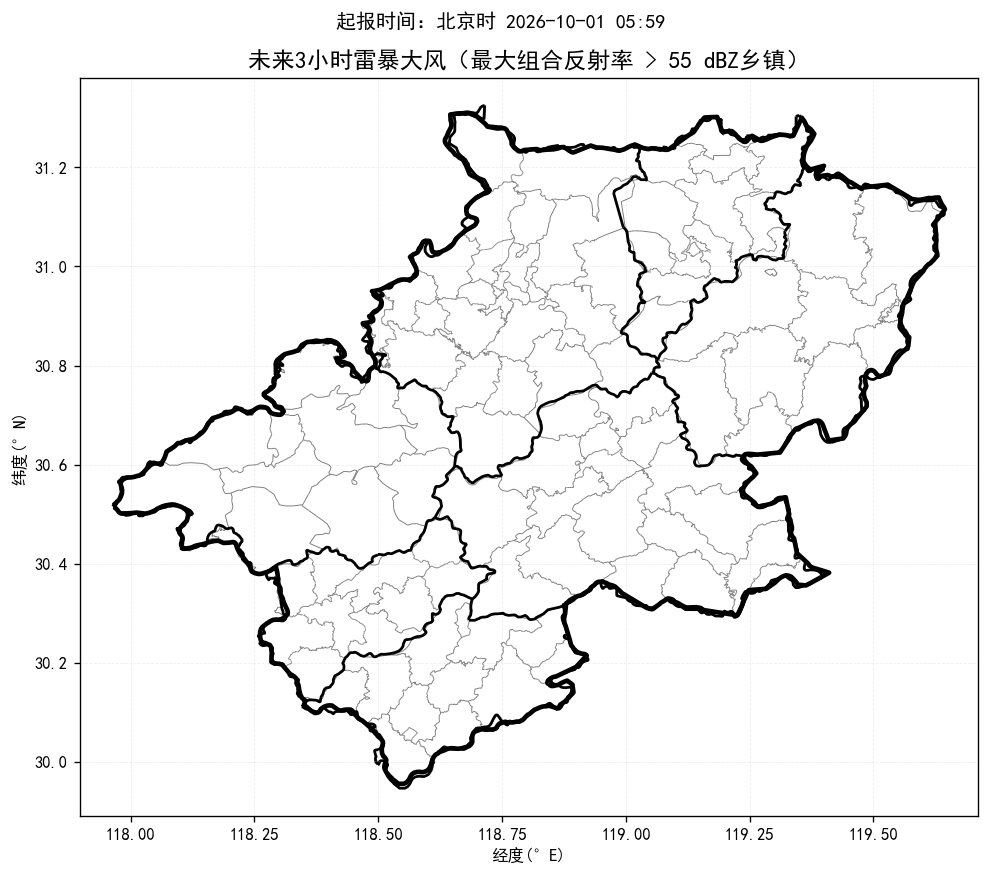
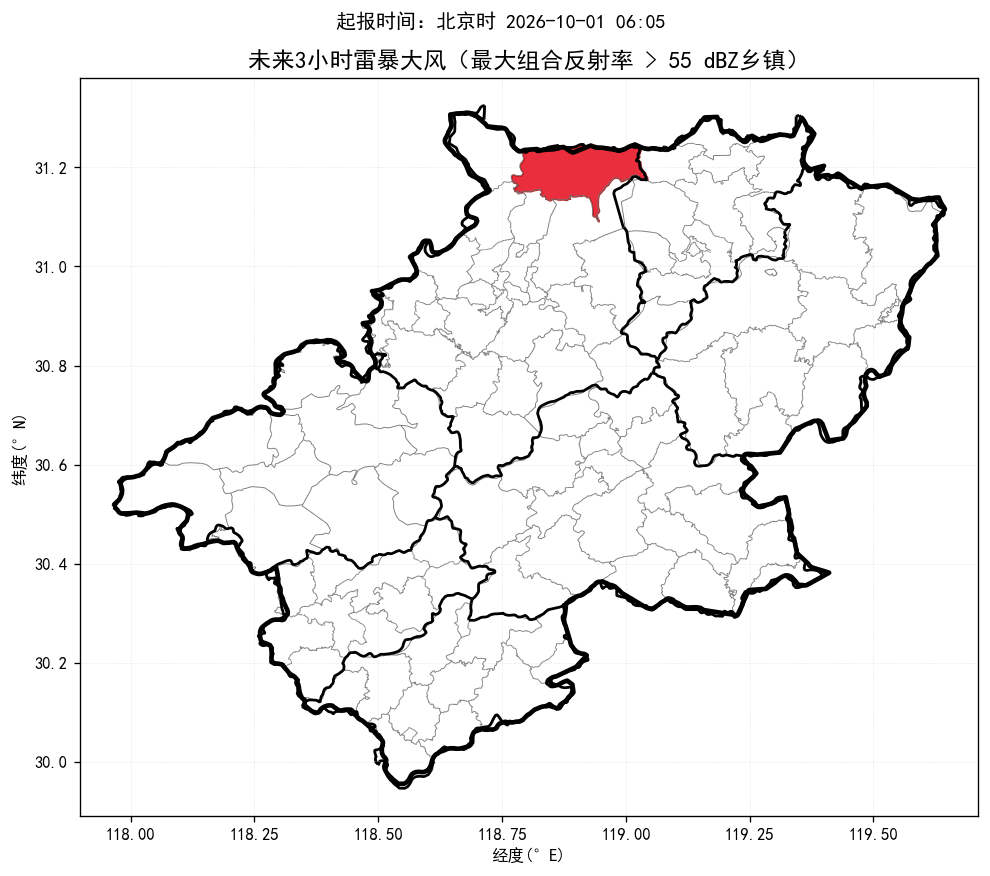
update nowcast products

Changed region(s): [[0.5152, 0.1541, 0.6667, 0.2466], [0.6364, 0.0, 0.6667, 0.0308]]

diff --git a/index.html b/index.html
@@ -14,14 +14,14 @@ img.product{display:block;width:100%;height:auto;margin:10px auto 26px;border:1p
 .footer{font-size:13px;color:#777;text-align:center;margin-top:30px}
 @media(max-width:700px){.sheet{margin:0;padding:18px 15px}.alert-title{font-size:22px}.county-line{font-size:17px}.prob{font-size:18px}}
 </style></head><body><main class="sheet">
-<div class="time">起报时间：北京时 2026-10-01 05:59</div>
+<div class="time">起报时间：北京时 2026-10-01 06:05</div>
 <div class="alert-title">未来一小时降水量超过 20 毫米的乡镇：</div><div class="county-line">无</div>
 <div class="alert-title">未来三小时降水量超过 50 毫米的乡镇：</div><div class="county-line">无</div>
-<div class="alert-title">未来三小时雷暴大风（组合反射率 > 55 dBZ）的乡镇：</div><div class="county-line">无</div>
-<div class="prob">最大降水量概率预估：宣城市范围内未来三小时降水偏小，最大预报约16.8毫米，暂不进行50/80/100毫米概率预估。</div>
-<div class="section-title">未来降水预报图：</div><img class="product auto-refresh-product" data-src="短临降水预报.png" src="短临降水预报.png?v=20261001060540" alt="未来降水预报图">
-<div class="section-title">未来三小时组合反射率图：</div><img class="product auto-refresh-product" data-src="未来3小时组合反射率.png" src="未来3小时组合反射率.png?v=20261001060540" alt="未来三小时组合反射率图">
-<div class="section-title">未来三小时雷暴大风图：</div><img class="product auto-refresh-product" data-src="未来3小时雷暴大风.png" src="未来3小时雷暴大风.png?v=20261001060540" alt="未来三小时雷暴大风图">
+<div class="alert-title">未来三小时雷暴大风（组合反射率 > 55 dBZ）的乡镇：</div><div class="county-line">宣州区：狸桥镇</div>
+<div class="prob">最大降水量概率预估：宣城市范围内未来三小时降水偏小，最大预报约18.2毫米，暂不进行50/80/100毫米概率预估。</div>
+<div class="section-title">未来降水预报图：</div><img class="product auto-refresh-product" data-src="短临降水预报.png" src="短临降水预报.png?v=20261001061120" alt="未来降水预报图">
+<div class="section-title">未来三小时组合反射率图：</div><img class="product auto-refresh-product" data-src="未来3小时组合反射率.png" src="未来3小时组合反射率.png?v=20261001061120" alt="未来三小时组合反射率图">
+<div class="section-title">未来三小时雷暴大风图：</div><img class="product auto-refresh-product" data-src="未来3小时雷暴大风.png" src="未来3小时雷暴大风.png?v=20261001061120" alt="未来三小时雷暴大风图">
 <div class="footer">三张产品图每 60 秒自动刷新一次；每次请求自动附加新的URL参数以绕过缓存。</div>
 <script>
 (function() {
